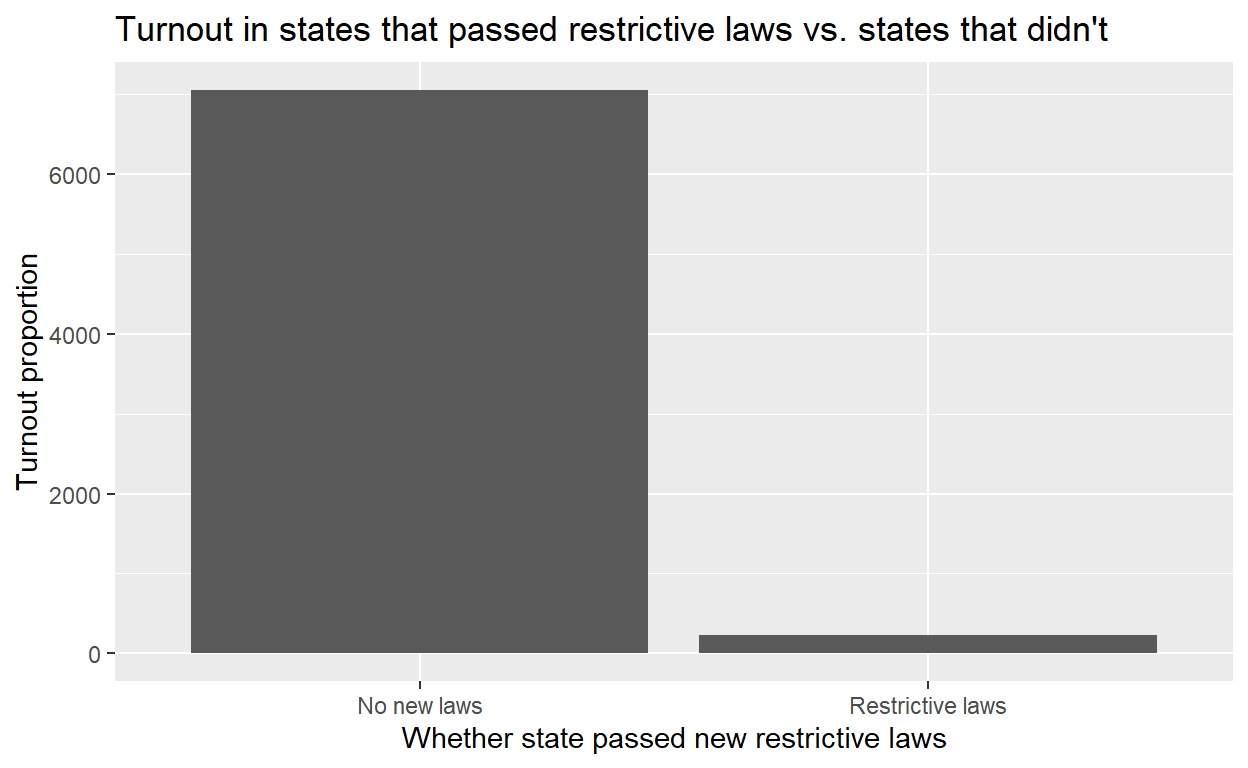
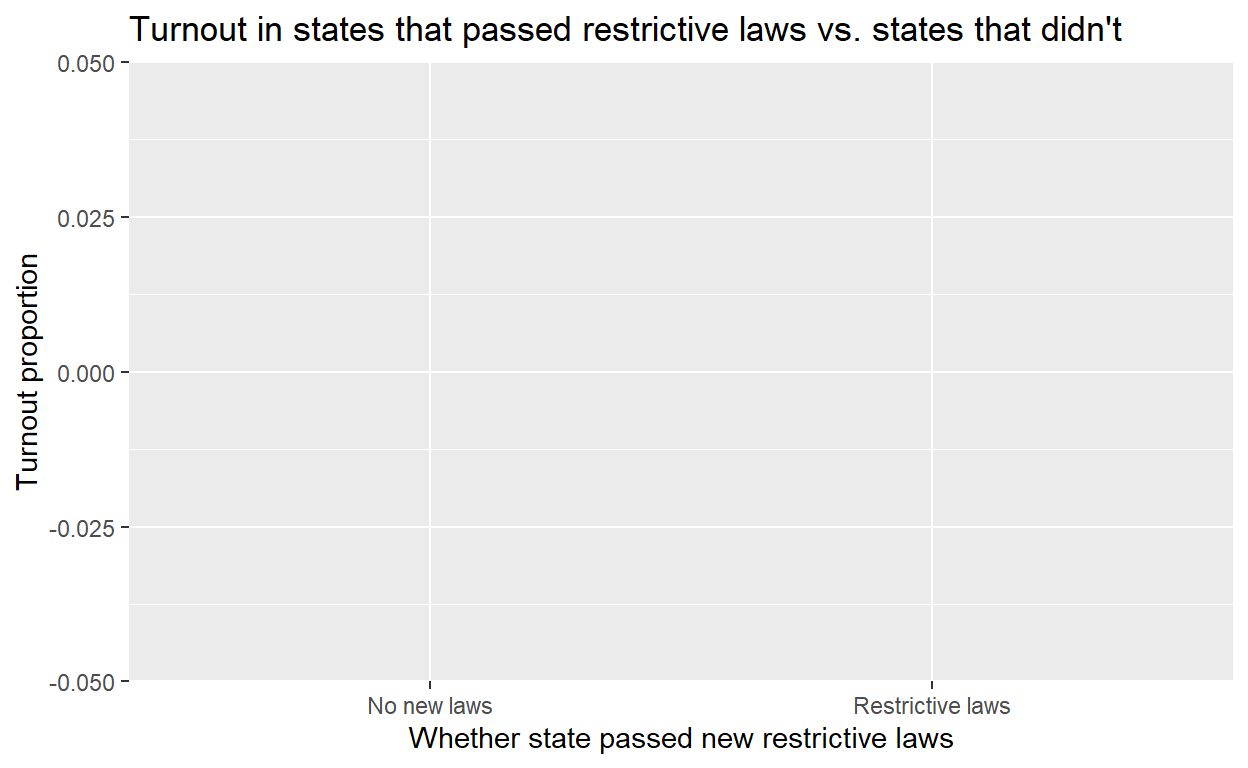
hallelujah part 2!

diff --git a/index.html b/index.html
@@ -1543,23 +1543,23 @@ code span.wa { color: #5e5e5e; font-style: italic; } /* Warning */
 </div>
 
 <div class="d-article">
-<h2 id="project-thoughts">Project thoughts</h2>
+<p>##Introduction</p>
+<h1 id="project-thoughts">Project thoughts</h1>
 <p>I am interested in exploring data related to U.S. elections, including topics such as online misinformation, voting demographics, and voter turnout. I’m especially interested in examining voter turnout in states which have passed restrictive voting laws in the aftermath of the 2013 Shelby County v. Holder Supreme Court case, which found Section 4 of the Voting Rights Act unconstitutional, allowing states to pass voting laws without being subject to federal review. Restrictive laws include restrictions on mail voting and unreasonably strict voter ID requirements, which disproportionately impact voters of color. These sorts of laws have been adopted by 29 states to date (<a href="https://www.brennancenter.org/our-work/analysis-opinion/states-have-added-nearly-100-restrictive-laws-scotus-gutted-voting-rights" class="uri">https://www.brennancenter.org/our-work/analysis-opinion/states-have-added-nearly-100-restrictive-laws-scotus-gutted-voting-rights</a>).</p>
-<h2 id="proposal">Proposal</h2>
+<h1 id="proposal">Proposal</h1>
 <p>Did restrictive state voting laws after Shelby County vs. Holder (2013) impact voter turnout in the 2016 general election? In this project, I will examine the extent to which restrictive voting laws passed after the Shelby decision impacted voter turnout in applicable states. I hypothesize that voter turnout decreased from 2012 to 2016 in states which passed stricter voter ID and mail-in ballot laws, especially for voters of color. I’ve chosen a data set with election data from 1948-2020, though I’ll only be looking at general election data from 2012 and 2016, since I want to compare across time. The explanatory variable of interest is whether a state passed restrictive voting law(s) or not. I will need to filter to specific states from the data based on information from the Brennan Center (see above). My outcome variable is voter turnout in a given state. If I observe lower voter turnout in 2016 compared to 2012 in states which passed restrictive voting laws, this would provide support for my hypothesis. If I observe higher or similar voter turnout, this would provide evidence against my hypothesis.</p>
 <h2 id="milestone-2">Milestone 2</h2>
 <div class="layout-chunk" data-layout="l-body">
 <div class="sourceCode">
 <pre class="sourceCode r"><code class="sourceCode r"><span><span class='kw'><a href='https://rdrr.io/r/base/library.html'>library</a></span><span class='op'>(</span><span class='va'><a href='https://tidyverse.tidyverse.org'>tidyverse</a></span><span class='op'>)</span></span>
-<span><span class='kw'><a href='https://rdrr.io/r/base/library.html'>library</a></span><span class='op'>(</span><span class='va'><a href='https://readr.tidyverse.org'>readr</a></span><span class='op'>)</span></span>
-<span><span class='va'>elections</span> <span class='op'>&lt;-</span> <span class='fu'><a href='https://readr.tidyverse.org/reference/read_delim.html'>read_csv</a></span><span class='op'>(</span><span class='st'>"anes_timeseries.csv"</span><span class='op'>)</span></span></code></pre>
+<span><span class='va'>elections</span> <span class='op'>&lt;-</span> <span class='fu'><a href='https://readr.tidyverse.org/reference/read_delim.html'>read_csv</a></span><span class='op'>(</span><span class='st'>"anes_timeseries.csv"</span>, show_col_types <span class='op'>=</span> <span class='cn'>FALSE</span><span class='op'>)</span></span></code></pre>
 </div>
 </div>
 <h2 id="milestone-3">Milestone 3</h2>
 <div class="layout-chunk" data-layout="l-body">
 <div class="sourceCode">
 <pre class="sourceCode r"><code class="sourceCode r"><span><span class='va'>elections</span> <span class='op'>&lt;-</span> <span class='va'>elections</span> <span class='op'>|&gt;</span></span>
-<span>  <span class='fu'><a href='https://dplyr.tidyverse.org/reference/filter.html'>filter</a></span><span class='op'>(</span><span class='va'>VCF0004</span> <span class='op'>==</span> <span class='st'>"2012"</span> <span class='op'>|</span> <span class='va'>VCF0004</span> <span class='op'>==</span> <span class='st'>"2016"</span><span class='op'>)</span></span>
+<span>  <span class='fu'><a href='https://dplyr.tidyverse.org/reference/filter.html'>filter</a></span><span class='op'>(</span><span class='va'>VCF0004</span> <span class='op'>==</span> <span class='fl'>2012</span> <span class='op'>|</span> <span class='va'>VCF0004</span> <span class='op'>==</span> <span class='fl'>2016</span><span class='op'>)</span></span>
 <span></span>
 <span><span class='va'>elections</span></span></code></pre>
 </div>
@@ -1587,7 +1587,7 @@ code span.wa { color: #5e5e5e; font-style: italic; } /* Warning */
 <div class="layout-chunk" data-layout="l-body">
 <div class="sourceCode">
 <pre class="sourceCode r"><code class="sourceCode r"><span><span class='va'>elections</span> <span class='op'>&lt;-</span> <span class='va'>elections</span> <span class='op'>|&gt;</span></span>
-<span>  <span class='fu'><a href='https://dplyr.tidyverse.org/reference/select.html'>select</a></span><span class='op'>(</span><span class='va'>`VCF0004`</span>, <span class='va'>`VCF0101`</span>, <span class='va'>`VCF0104`</span>, <span class='va'>`VCF0105a`</span>, <span class='va'>`VCF0112`</span> ,<span class='va'>`VCF0113`</span>, <span class='va'>`VCF0301`</span>, <span class='va'>`VCF0310`</span>, <span class='va'>`VCF0701`</span>, <span class='va'>`VCF0702`</span>, <span class='va'>`VCF0703`</span>, <span class='va'>`VCF0748`</span>, <span class='va'>`VCF0750`</span>, <span class='va'>`VCF0803`</span>, <span class='va'>`VCF0901a`</span>, <span class='va'>`VCF9150`</span><span class='op'>)</span></span>
+<span>  <span class='fu'><a href='https://dplyr.tidyverse.org/reference/select.html'>select</a></span><span class='op'>(</span><span class='va'>VCF0004</span>, <span class='va'>VCF0101</span>, <span class='va'>VCF0104</span>, <span class='va'>VCF0105a</span>, <span class='va'>VCF0112</span>, <span class='va'>VCF0113</span>, <span class='va'>VCF0301</span>, <span class='va'>VCF0310</span>, <span class='va'>VCF0701</span>, <span class='va'>VCF0702</span>, <span class='va'>VCF0703</span>, <span class='va'>VCF0748</span>, <span class='va'>VCF0750</span>, <span class='va'>VCF0803</span>, <span class='va'>VCF0901a</span>, <span class='va'>VCF9150</span><span class='op'>)</span></span>
 <span></span>
 <span><span class='co'>#year, respondent age, gender, race, region, political south/nonsouth, party identification, interest in elections, registered to vote, did respondent vote, register and turnout summary, voted on election day or before, voted in person or absentee, liberal/conservative scale, state code, registration status</span></span>
 <span></span>
@@ -1638,16 +1638,46 @@ code span.wa { color: #5e5e5e; font-style: italic; } /* Warning */
 </div>
 <div class="layout-chunk" data-layout="l-body">
 <div class="sourceCode">
-<pre class="sourceCode r"><code class="sourceCode r"><span><span class='kw'><a href='https://rdrr.io/r/base/library.html'>library</a></span><span class='op'>(</span><span class='va'><a href='https://ggplot2.tidyverse.org'>ggplot2</a></span><span class='op'>)</span></span>
-<span></span>
-<span><span class='va'>elections</span> <span class='op'>&lt;-</span> <span class='va'>elections</span> <span class='op'>|&gt;</span></span>
+<pre class="sourceCode r"><code class="sourceCode r"><span><span class='va'>elections</span> <span class='op'>&lt;-</span> <span class='va'>elections</span> <span class='op'>|&gt;</span></span>
 <span>  <span class='fu'><a href='https://dplyr.tidyverse.org/reference/filter.html'>filter</a></span><span class='op'>(</span><span class='va'>voted</span> <span class='op'>==</span> <span class='fl'>2</span> <span class='op'>|</span> <span class='va'>voted</span> <span class='op'>==</span> <span class='fl'>1</span><span class='op'>)</span> <span class='op'>|&gt;</span></span>
-<span>  <span class='fu'><a href='https://dplyr.tidyverse.org/reference/mutate.html'>mutate</a></span><span class='op'>(</span>voted_or_not <span class='op'>=</span> <span class='fu'><a href='https://dplyr.tidyverse.org/reference/if_else.html'>if_else</a></span><span class='op'>(</span><span class='va'>voted</span> <span class='op'>==</span> <span class='fl'>2</span>, <span class='st'>"yes"</span>, <span class='st'>"no"</span><span class='op'>)</span><span class='op'>)</span></span>
+<span>  <span class='fu'><a href='https://dplyr.tidyverse.org/reference/mutate.html'>mutate</a></span><span class='op'>(</span>voted_or_not <span class='op'>=</span> <span class='fu'><a href='https://dplyr.tidyverse.org/reference/if_else.html'>if_else</a></span><span class='op'>(</span><span class='va'>voted</span> <span class='op'>==</span> <span class='fl'>2</span>, <span class='fl'>1</span>, <span class='fl'>0</span><span class='op'>)</span><span class='op'>)</span></span>
 <span></span>
-<span><span class='va'>elections</span> <span class='op'>|&gt;</span></span>
-<span>  <span class='fu'><a href='https://ggplot2.tidyverse.org/reference/ggplot.html'>ggplot</a></span><span class='op'>(</span>mapping <span class='op'>=</span> <span class='fu'><a href='https://ggplot2.tidyverse.org/reference/aes.html'>aes</a></span><span class='op'>(</span>x <span class='op'>=</span> <span class='va'>year</span><span class='op'>)</span><span class='op'>)</span> <span class='op'>+</span></span>
-<span>  <span class='fu'><a href='https://ggplot2.tidyverse.org/reference/geom_histogram.html'>geom_histogram</a></span><span class='op'>(</span>binwidth <span class='op'>=</span> <span class='fl'>1</span><span class='op'>)</span> <span class='op'>+</span></span>
-<span>  <span class='fu'><a href='https://ggplot2.tidyverse.org/reference/labs.html'>labs</a></span><span class='op'>(</span>x <span class='op'>=</span> <span class='st'>"Year"</span>, y <span class='op'>=</span> <span class='st'>"Voted"</span>, title <span class='op'>=</span> <span class='st'>"Voter turnout by year"</span><span class='op'>)</span></span></code></pre>
+<span><span class='va'>turnout_props</span> <span class='op'>&lt;-</span> <span class='va'>elections</span> <span class='op'>|&gt;</span></span>
+<span>  <span class='fu'><a href='https://dplyr.tidyverse.org/reference/group_by.html'>group_by</a></span><span class='op'>(</span><span class='va'>year</span><span class='op'>)</span> <span class='op'>|&gt;</span></span>
+<span>  <span class='fu'><a href='https://dplyr.tidyverse.org/reference/summarise.html'>summarize</a></span><span class='op'>(</span>turnout_prop <span class='op'>=</span> <span class='fu'><a href='https://rdrr.io/r/base/mean.html'>mean</a></span><span class='op'>(</span><span class='va'>voted_or_not</span><span class='op'>)</span><span class='op'>)</span></span>
+<span></span>
+<span><span class='fu'>knitr</span><span class='fu'>::</span><span class='fu'><a href='https://rdrr.io/pkg/knitr/man/kable.html'>kable</a></span><span class='op'>(</span><span class='va'>turnout_props</span>, col.names <span class='op'>=</span> <span class='fu'><a href='https://rdrr.io/r/base/c.html'>c</a></span><span class='op'>(</span><span class='st'>"Year"</span>, <span class='st'>"Turnout Proportion"</span><span class='op'>)</span><span class='op'>)</span></span></code></pre>
+</div>
+<table>
+<thead>
+<tr class="header">
+<th style="text-align: right;">Year</th>
+<th style="text-align: right;">Turnout Proportion</th>
+</tr>
+</thead>
+<tbody>
+<tr class="odd">
+<td style="text-align: right;">2012</td>
+<td style="text-align: right;">0.799274</td>
+</tr>
+<tr class="even">
+<td style="text-align: right;">2016</td>
+<td style="text-align: right;">0.786006</td>
+</tr>
+</tbody>
+</table>
+<div class="sourceCode">
+<pre class="sourceCode r"><code class="sourceCode r"><span><span class='va'>overall_turnout</span> <span class='op'>&lt;-</span> <span class='va'>elections</span> <span class='op'>|&gt;</span></span>
+<span>  <span class='fu'><a href='https://dplyr.tidyverse.org/reference/group_by.html'>group_by</a></span><span class='op'>(</span><span class='va'>year</span><span class='op'>)</span> <span class='op'>|&gt;</span></span>
+<span>  <span class='fu'><a href='https://dplyr.tidyverse.org/reference/summarise.html'>summarize</a></span><span class='op'>(</span>turnout_prop <span class='op'>=</span> <span class='fu'><a href='https://rdrr.io/r/base/mean.html'>mean</a></span><span class='op'>(</span><span class='va'>voted_or_not</span><span class='op'>)</span><span class='op'>)</span> <span class='op'>|&gt;</span></span>
+<span>  <span class='fu'><a href='https://ggplot2.tidyverse.org/reference/ggplot.html'>ggplot</a></span><span class='op'>(</span>mapping <span class='op'>=</span> <span class='fu'><a href='https://ggplot2.tidyverse.org/reference/aes.html'>aes</a></span><span class='op'>(</span>y <span class='op'>=</span> <span class='va'>turnout_prop</span><span class='op'>)</span><span class='op'>)</span> <span class='op'>+</span></span>
+<span>  <span class='fu'><a href='https://ggplot2.tidyverse.org/reference/geom_bar.html'>geom_col</a></span><span class='op'>(</span><span class='fu'><a href='https://ggplot2.tidyverse.org/reference/aes.html'>aes</a></span><span class='op'>(</span>x <span class='op'>=</span> <span class='va'>year</span><span class='op'>)</span>, fill <span class='op'>=</span> <span class='st'>"blue"</span>, width <span class='op'>=</span> <span class='fl'>2</span><span class='op'>)</span> <span class='op'>+</span></span>
+<span>  <span class='fu'><a href='https://ggplot2.tidyverse.org/reference/lims.html'>ylim</a></span><span class='op'>(</span><span class='fl'>0</span>,<span class='fl'>1</span><span class='op'>)</span> <span class='op'>+</span></span>
+<span>  <span class='fu'><a href='https://ggplot2.tidyverse.org/reference/labs.html'>labs</a></span><span class='op'>(</span>x <span class='op'>=</span> <span class='st'>"Year"</span>, y <span class='op'>=</span> <span class='st'>"Turnout Proportion"</span>, title <span class='op'>=</span> <span class='st'>"Overall voter turnout in 2012 vs. 2016"</span><span class='op'>)</span> <span class='op'>+</span></span>
+<span>  <span class='fu'><a href='https://ggplot2.tidyverse.org/reference/annotate.html'>annotate</a></span><span class='op'>(</span>geom <span class='op'>=</span> <span class='st'>"text"</span>, x <span class='op'>=</span> <span class='fl'>2012</span>, y <span class='op'>=</span> <span class='fl'>0.83</span>, label <span class='op'>=</span> <span class='st'>"Prop = 0.799"</span><span class='op'>)</span> <span class='op'>+</span></span>
+<span>  <span class='fu'><a href='https://ggplot2.tidyverse.org/reference/annotate.html'>annotate</a></span><span class='op'>(</span>geom <span class='op'>=</span> <span class='st'>"text"</span>, x <span class='op'>=</span> <span class='fl'>2016</span>, y <span class='op'>=</span> <span class='fl'>0.81</span>, label <span class='op'>=</span> <span class='st'>"Prop = 0.786"</span><span class='op'>)</span></span>
+<span></span>
+<span><span class='va'>overall_turnout</span></span></code></pre>
 </div>
 <p><img src="index_files/figure-html5/unnamed-chunk-5-1.png" width="624" /></p>
 </div>
